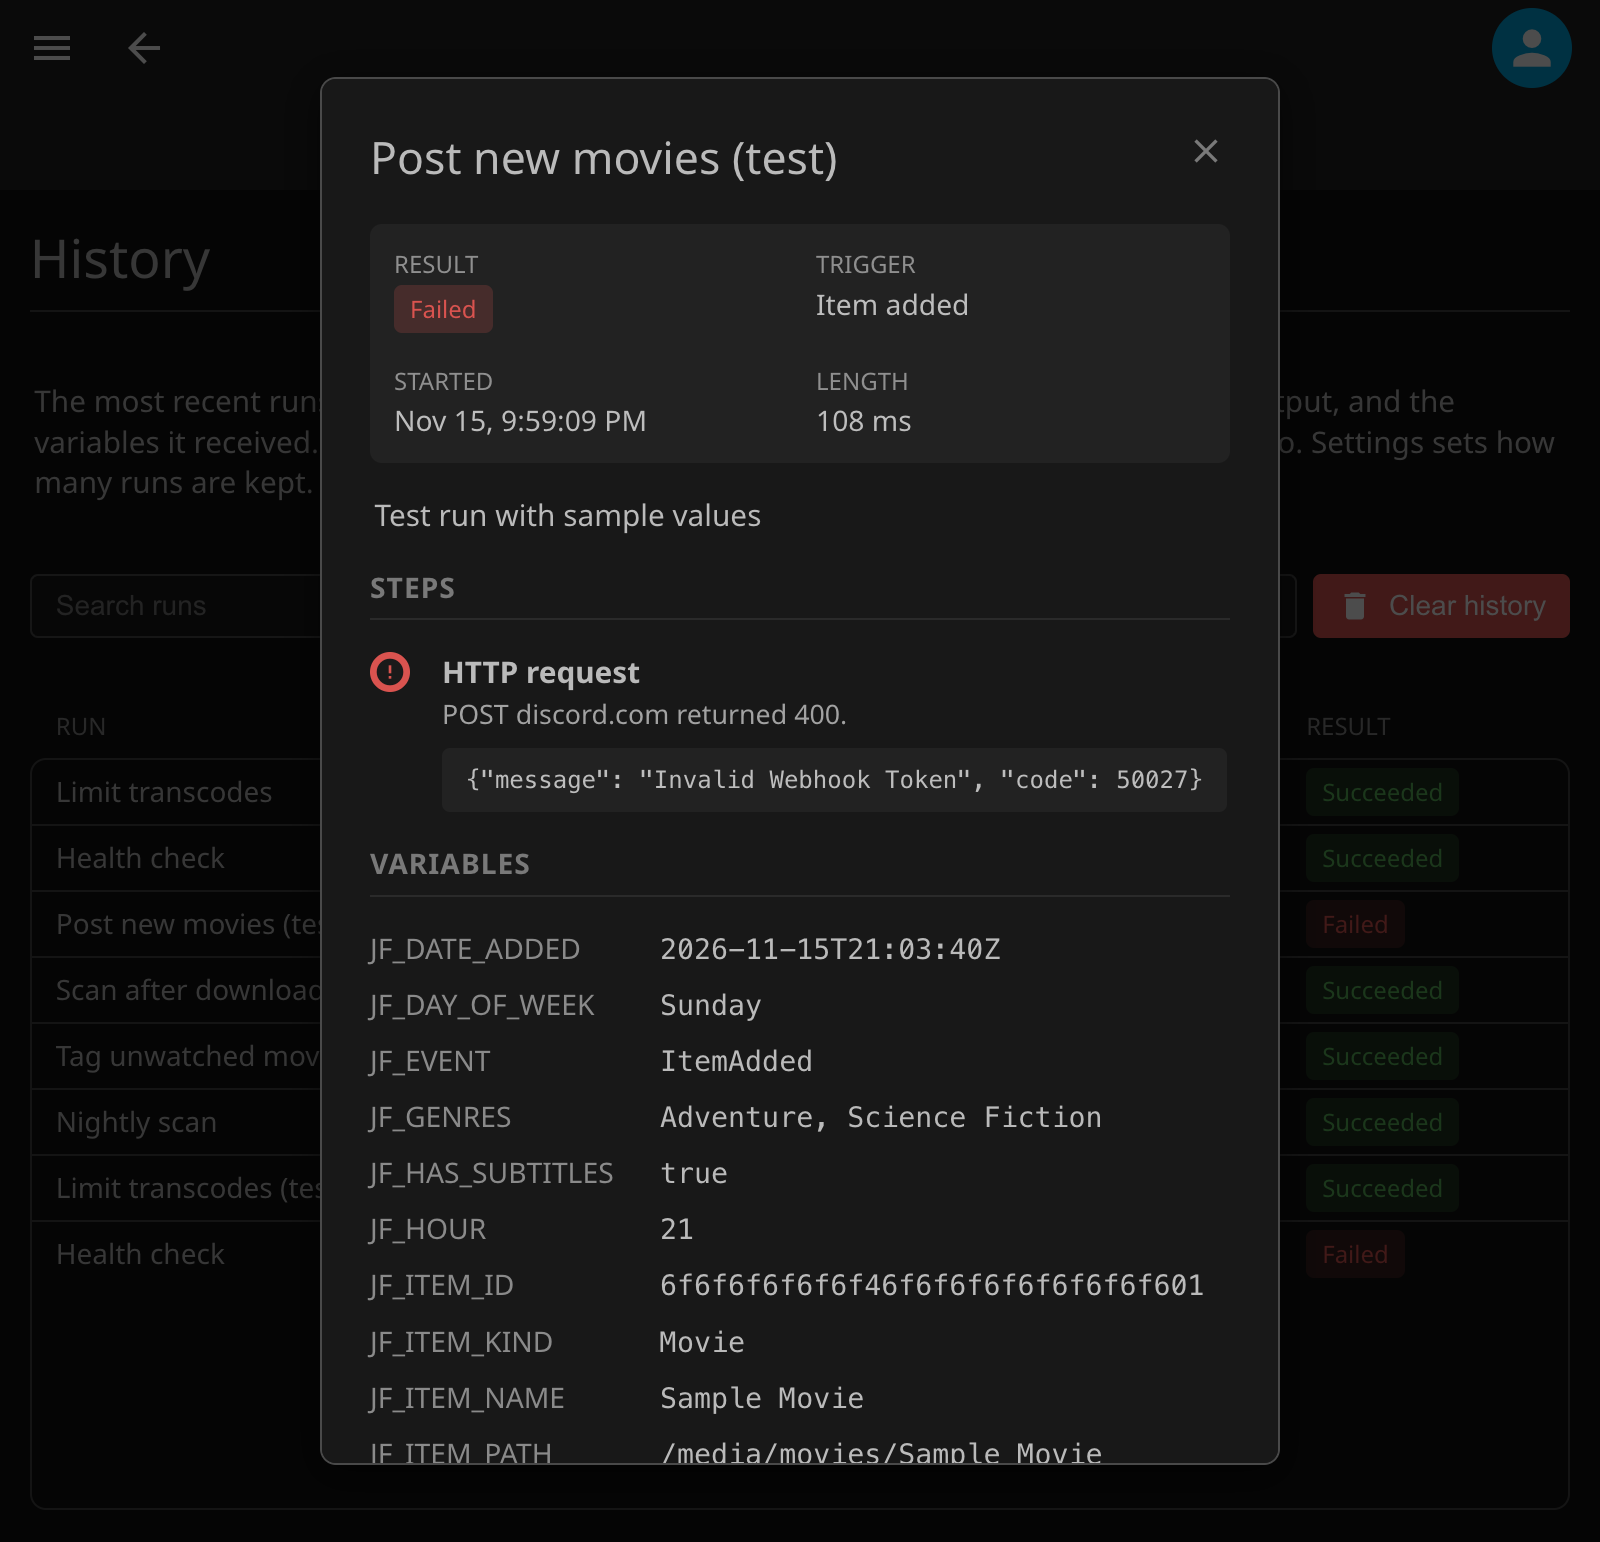
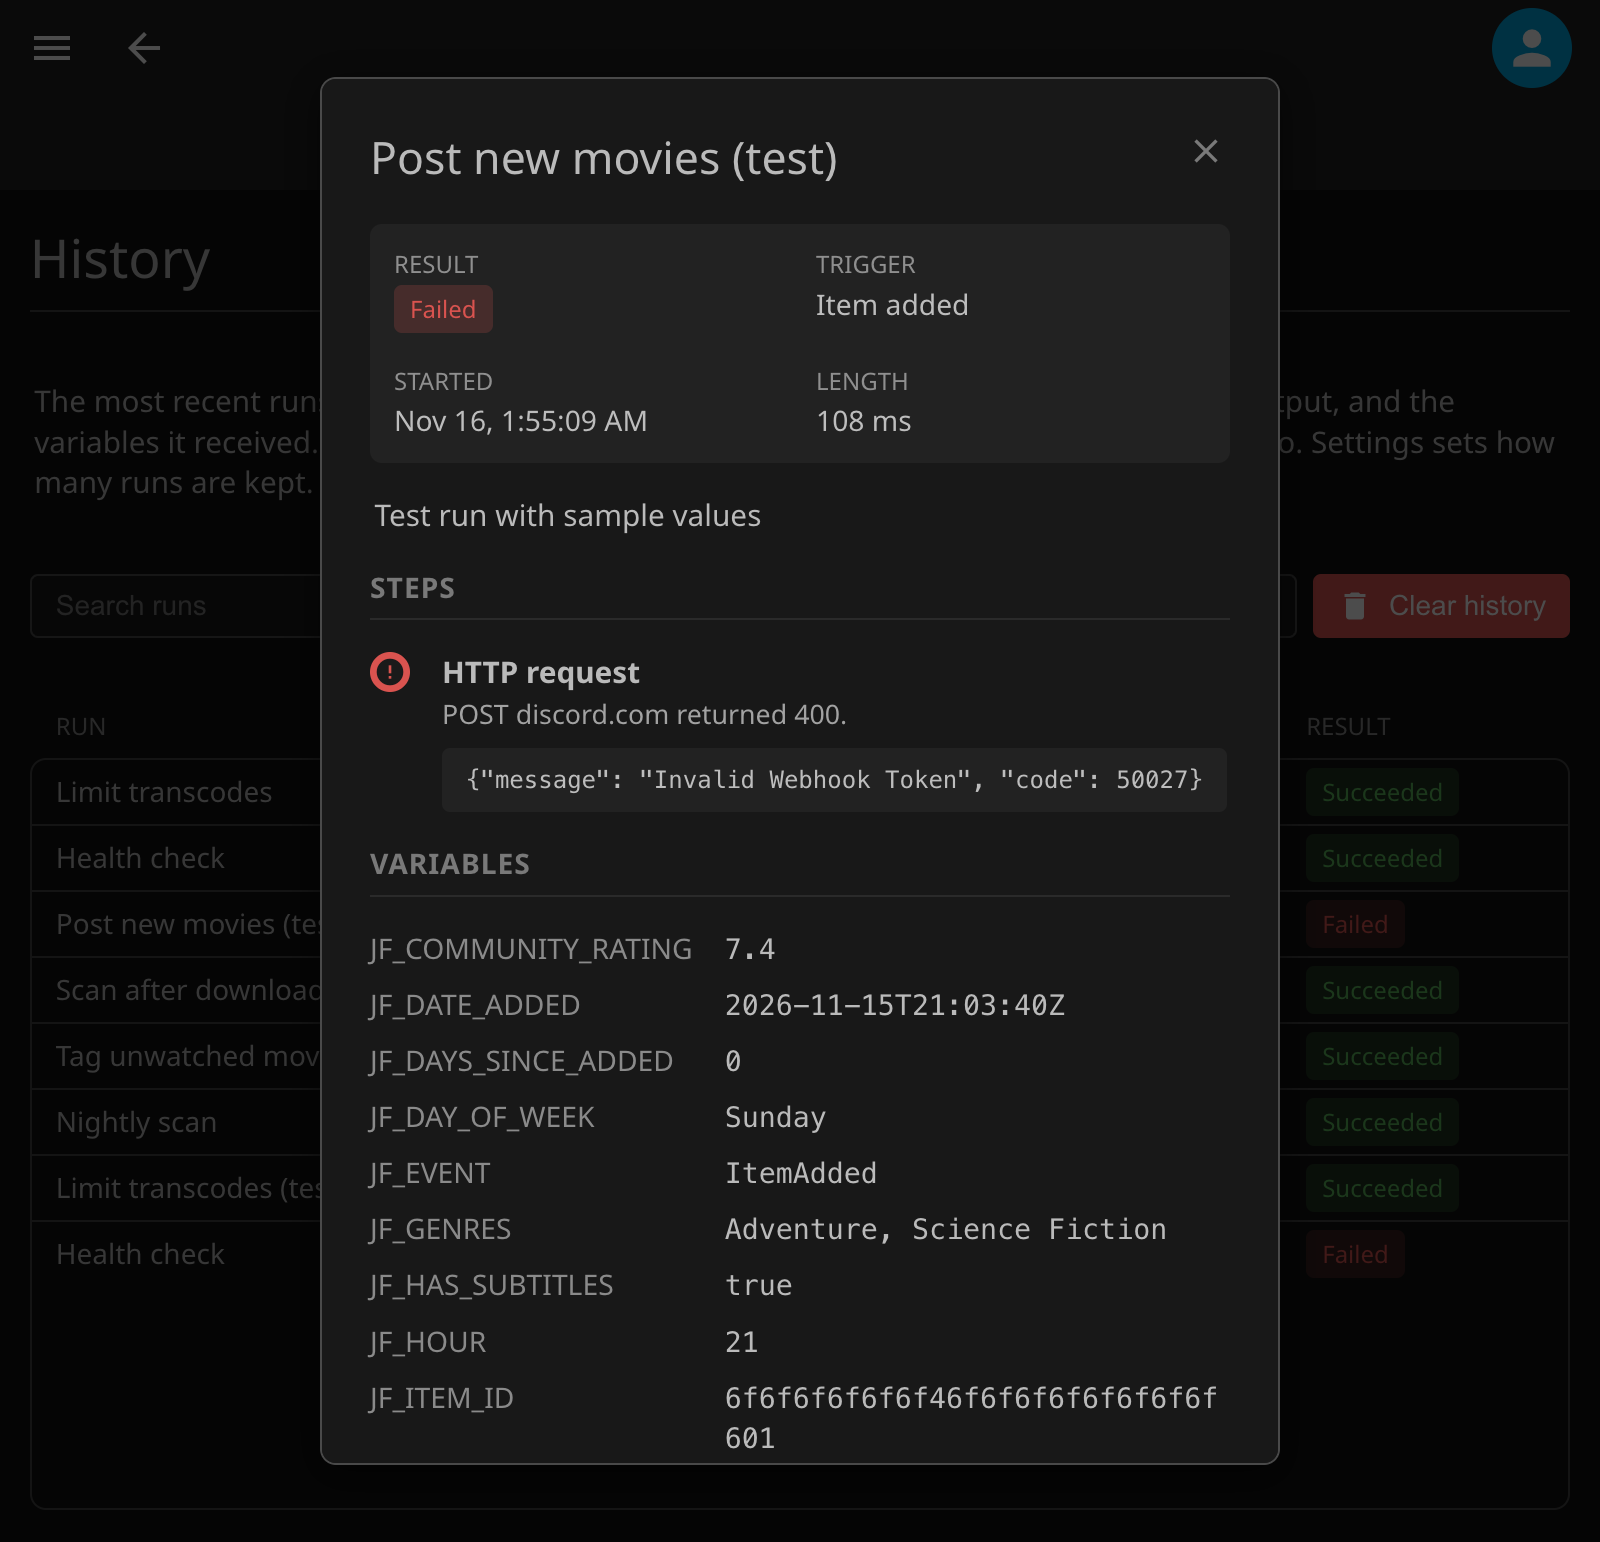
Take Base 2026.11.20 and show long run variable names in Run details
The Definition List sizes its labels to a shared column, so the kit's
sample run carries the long item variables again and RunDetails.png
shows them. Section titles show as written, so Item Kinds is written
in Title Case.

Changed region(s): [[0.25, 0.5914, 0.75, 0.965], [0.4062, 0.9027, 0.75, 0.965], [0.375, 0.249, 0.4062, 0.2802]]

diff --git a/tools/screenshots/stub.js b/tools/screenshots/stub.js
@@ -79,8 +79,9 @@ var ITEM_VARS = {
     EVENT: 'ItemAdded', TIMESTAMP: '2026-11-15T21:04:12Z', LOCAL_DATE: '2026-11-15', LOCAL_TIME: '21:04:12', HOUR: '21', DAY_OF_WEEK: 'Sunday', SCRIPT_NAME: 'Post new movies',
     SERVER_NAME: 'Home', SERVER_ID: '00000000000000000000000000000001', SERVER_VERSION: '12.4.0', ITEM_ID: '6f6f6f6f6f6f46f6f6f6f6f6f6f6f601', ITEM_NAME: 'Sample Movie', ITEM_KIND: 'Movie',
     ITEM_PATH: '/media/movies/Sample Movie (2024)/Sample Movie (2024).mkv', LIBRARY_ID: '1a1a1a1a1a1a41a1a1a1a1a1a1a1a101', LIBRARY_NAME: 'Movies', YEAR: '2024',
-    GENRES: 'Adventure, Science Fiction', TAGS: '', STUDIOS: 'Example Studios', OFFICIAL_RATING: 'PG-13', VIDEO_WIDTH: '1920', VIDEO_HEIGHT: '1080',
-    DATE_ADDED: '2026-11-15T21:03:40Z', HAS_SUBTITLES: 'true'
+    RUNTIME_SECONDS: '7260', GENRES: 'Adventure, Science Fiction', TAGS: '', STUDIOS: 'Example Studios', OFFICIAL_RATING: 'PG-13', COMMUNITY_RATING: '7.4',
+    VIDEO_WIDTH: '1920', VIDEO_HEIGHT: '1080', DATE_ADDED: '2026-11-15T21:03:40Z', DAYS_SINCE_ADDED: '0', HAS_SUBTITLES: 'true',
+    PROVIDER_IMDB: 'tt0000001', PROVIDER_TMDB: '100001'
 };
 var runs = [
     { Id: 'r01', ScriptName: 'Limit transcodes', Trigger: 'PlaybackStart', StartedUtc: ago(3), DurationMs: 42, Succeeded: true, IsTest: false, Summary: '',

diff --git a/Jellyfin.Plugin.Scripts/Configuration/scripts_scripts.html b/Jellyfin.Plugin.Scripts/Configuration/scripts_scripts.html
@@ -165,7 +165,7 @@
 
                         <!-- Filters -->
                         <div class="base-section">
-                            <div class="base-section-title">Item kinds</div>
+                            <div class="base-section-title">Item Kinds</div>
                             <div class="base-section-content">
                                 <div class="fieldDescription">
                                     Run only for items of these kinds. Leave empty for every kind. Triggers without an

diff --git a/skills/code.md b/skills/code.md
@@ -201,7 +201,7 @@ export function renderRunSteps(shared, run) {
 * Pass the page handle to `openDialog` as `page`, so leaving the tab closes the dialog.
 * A Save Bar's `onSave` returns the save promise. To stop a save, reject with an `Error` whose message the bar shows.
 * Mount a Base control that holds inputs in a plain `base-field` with its label and description, never inside an `inputContainer`, which widens every input in it, unless the component's typings say it belongs there.
-* Watch for class names that collide with Jellyfin's own CSS. Jellyfin's global `.card` rule sets paint containment, and Base's card Repeater adds a bare `card` class. A Base component that draws a fixed popup, such as a Chip Select's list, never sits inside an element with `contain`, `transform`, or `filter`, since its popup lands off screen there.
+* Watch for class names that collide with Jellyfin's own CSS. Jellyfin's global `.card` rule sets paint containment, so never add a bare `card` class to an element that holds a Base control, and never target a Repeater by `card` or `inline`. Its layout classes are `base-repeater-layout-card` and `base-repeater-layout-inline`. A Base component that draws a fixed popup, such as a Chip Select's list, never sits inside an element with `contain`, `transform`, or `filter`, since its popup lands off screen there.
 * Offer suggestions for one text value with `createComboBox`, never a `datalist`.
 * A Repeater row keeps keys that no field shows, such as a secret's `PreviousName`. Never add an empty field to carry one.
 * Rewrite typed text with a Repeater field's `transform`, never an input listener.

diff --git a/skills/style.md b/skills/style.md
@@ -37,7 +37,7 @@ These rules apply to every string a user can see. That includes HTML, JS, C# mes
 | Text | Case | Example |
 | :--- | :--- | :--- |
 | Tab | Title Case, one word | History |
-| Section and collapsible title | Title Case | Item kinds |
+| Section and collapsible title | Title Case | Item Kinds |
 | Field label | Sentence case | Runs at once |
 | Checkbox label | Sentence case | Continue on error |
 | Button | Sentence case, verb first | Add condition |
